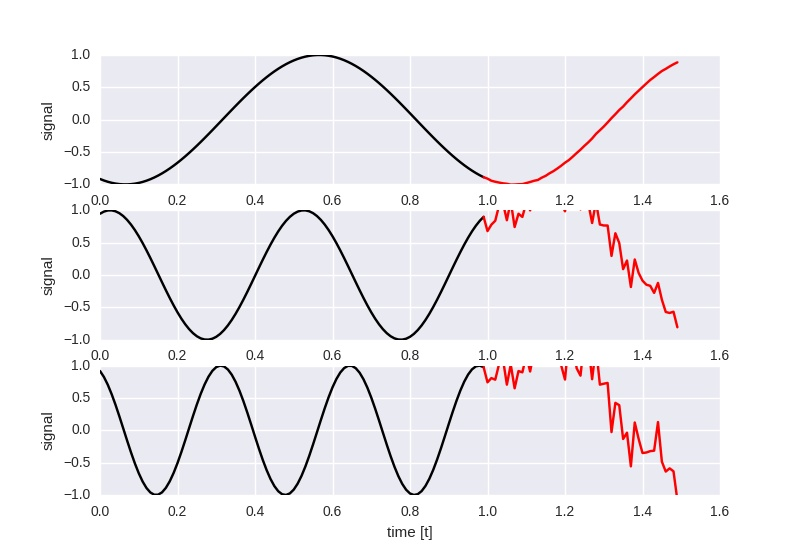
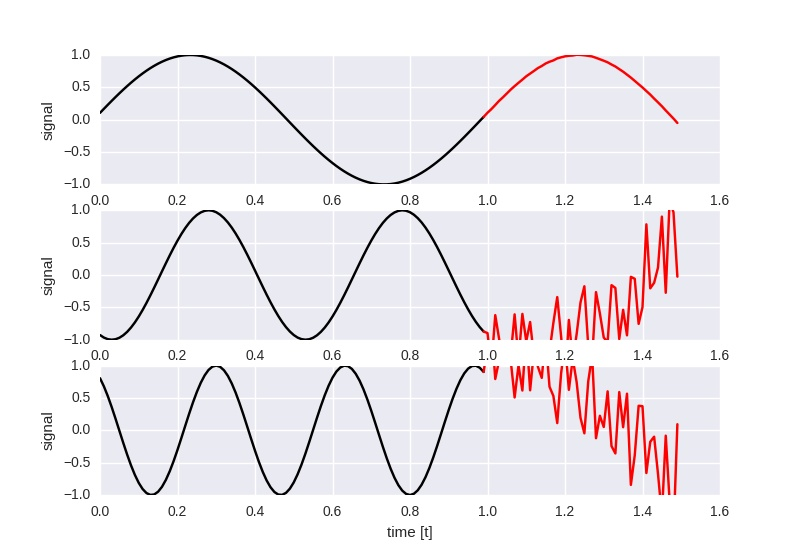
added another experiment

diff --git a/tf-recurrent-sin-3.py b/tf-recurrent-sin-3.py
@@ -1,0 +1,125 @@
+'''
+A Recurrent Neural Network (LSTM) implementation example using TensorFlow library.
+Inspired by https://github.com/aymericdamien/TensorFlow-Examples/
+'''
+
+from __future__ import print_function
+
+from generate_sample import generate_sample
+
+import numpy as np
+import matplotlib.pyplot as plt
+import seaborn as sns
+
+
+import tensorflow as tf
+from tensorflow.python.ops import rnn, rnn_cell
+
+
+'''
+To classify images using a recurrent neural network, we consider every image
+row as a sequence of pixels. Because MNIST image shape is 28*28px, we will then
+handle 28 sequences of 28 steps for every sample.
+'''
+
+# Parameters
+learning_rate = 0.0005
+training_iters = 500000
+batch_size = 50
+display_step = 100
+
+# Network Parameters
+n_input = 1  # input is sin(x)
+n_steps = 25  # timesteps
+n_hidden = 150  # hidden layer num of features
+n_outputs = 50  # output is sin(x+1)
+
+# tf Graph input
+x = tf.placeholder("float", [None, n_steps, n_input])
+y = tf.placeholder("float", [None, n_outputs])
+
+# Define weights
+weights = {
+    'out': tf.Variable(tf.random_normal([n_hidden, n_outputs]))
+}
+biases = {
+    'out': tf.Variable(tf.random_normal([n_outputs]))
+}
+
+
+def RNN(x, weights, biases):
+
+    # Prepare data shape to match `rnn` function requirements
+    # Current data input shape: (batch_size, n_steps, n_input)
+    # Required shape: 'n_steps' tensors list of shape (batch_size, n_input)
+
+    # Permuting batch_size and n_steps
+    x = tf.transpose(x, [1, 0, 2])
+    # Reshaping to (n_steps*batch_size, n_input)
+    x = tf.reshape(x, [-1, n_input])
+    # Split to get a list of 'n_steps' tensors of shape (batch_size, n_input)
+    x = tf.split(0, n_steps, x)
+
+    # Define a lstm cell with tensorflow
+    lstm_cell = rnn_cell.BasicLSTMCell(n_hidden, forget_bias=1.0)
+
+    # Get lstm cell output
+    outputs, states = rnn.rnn(lstm_cell, x, dtype=tf.float32)
+
+    # Linear activation, using rnn inner loop last output
+    return tf.matmul(outputs[-1], weights['out']) + biases['out']
+
+pred = RNN(x, weights, biases)
+
+# Define loss (Euclidean distance) and optimizer
+individual_losses = tf.reduce_sum(tf.square(tf.sub(pred, y)), reduction_indices=1)
+loss = tf.reduce_mean(individual_losses)
+optimizer = tf.train.AdamOptimizer(learning_rate=learning_rate).minimize(loss)
+
+# Initializing the variables
+init = tf.global_variables_initializer()
+
+# Launch the graph
+with tf.Session() as sess:
+    sess.run(init)
+    step = 1
+    # Keep training until reach max iterations
+    while step * batch_size < training_iters:
+        _, batch_x, __, batch_y = generate_sample(f=None, t0=None, batch_size=batch_size, samples=n_steps, predict=n_outputs)
+
+        # Reshape data to get 28 seq of 28 elements
+        batch_x = batch_x.reshape((batch_size, n_steps, n_input))
+        batch_y = batch_y.reshape((batch_size, n_outputs))
+
+        # Run optimization op (backprop)
+        sess.run(optimizer, feed_dict={x: batch_x, y: batch_y})
+        if step % display_step == 0:
+            # Calculate batch loss
+            loss_value = sess.run(loss, feed_dict={x: batch_x, y: batch_y})
+            print("Iter " + str(step*batch_size) + ", Minibatch Loss= " + \
+                  "{:.6f}".format(loss_value))
+        step += 1
+    print("Optimization Finished!")
+
+    # Test the prediction
+    n_tests = 3
+    for i in range(1, n_tests+1):
+        plt.subplot(n_tests, 1, i)
+        t, y, next_t, expected_y = generate_sample(f=i, t0=None, samples=n_steps, predict=n_outputs)
+
+        test_input = y.reshape((1, n_steps, n_input))
+        prediction = sess.run(pred, feed_dict={x: test_input})
+
+        # remove the batch size dimensions
+        t = t.squeeze()
+        y = y.squeeze()
+        next_t = next_t.squeeze()
+        prediction = prediction.squeeze()
+
+        plt.plot(t, y, color='black')
+        plt.plot(np.append(t[-1], next_t), np.append(y[-1], prediction), color='red')
+        plt.ylim([-1, 1])
+        plt.xlabel('time [t]')
+        plt.ylabel('signal')
+
+    plt.show()
